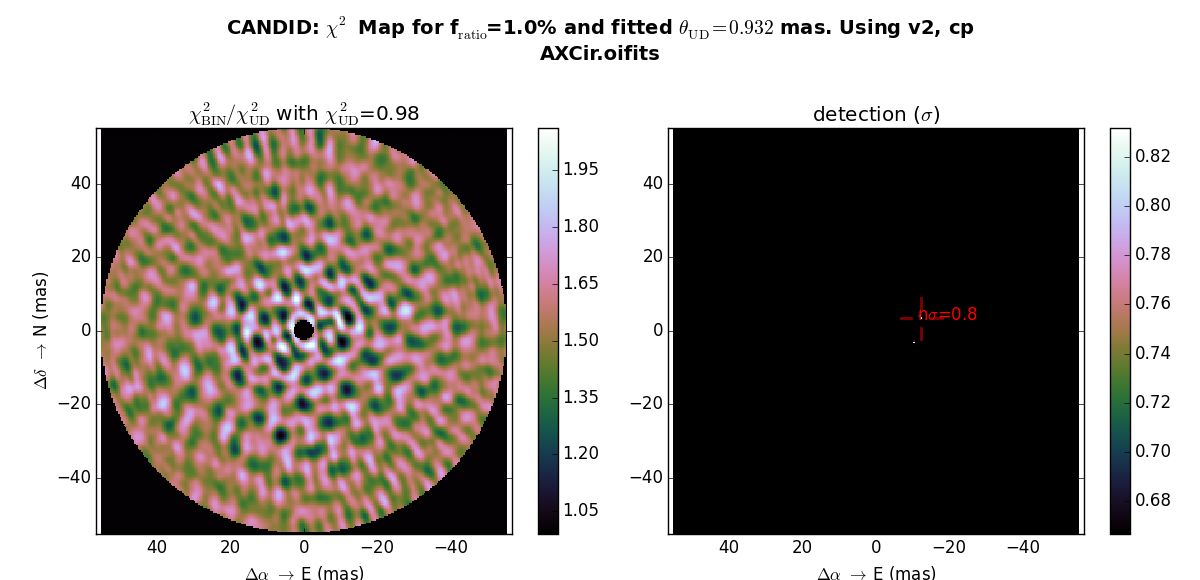
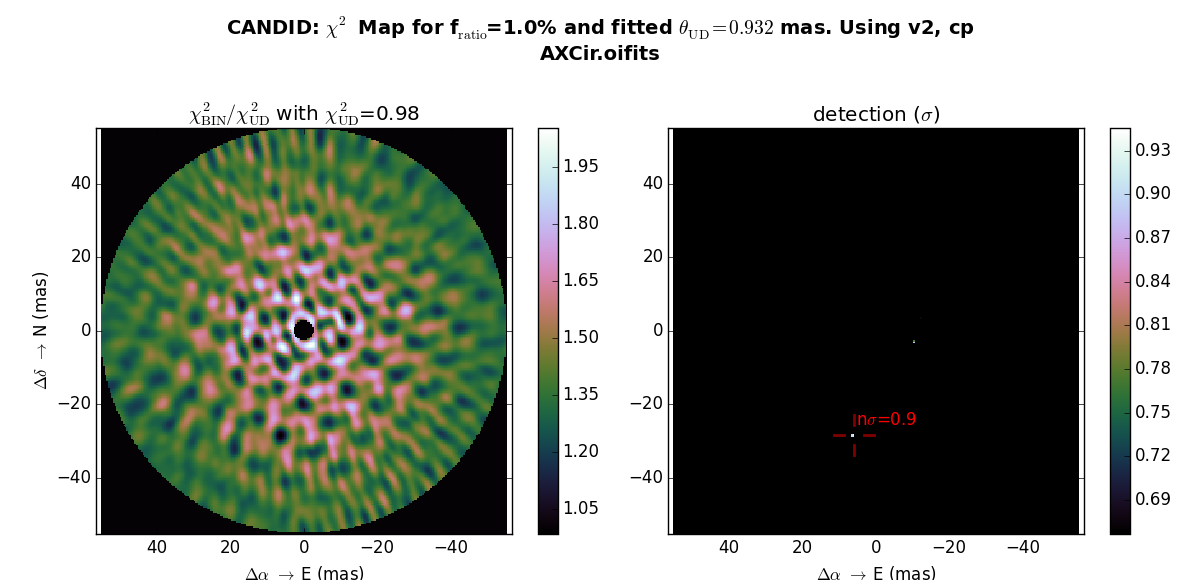
version 0.7: bug fix in T3 computation

diff --git a/candid.py b/candid.py
@@ -27,7 +27,34 @@ import os
 #__version__ = '0.3 | 2015/01/14' # add Alex contrib and FLAG taken into account
 #__version__ = '0.4 | 2015/01/30' # modified bandwidth smearing handling
 #__version__ = '0.5 | 2015/02/01' # field of view, auto rmin/rmax, bootstrapping
-__version__ = '0.6 | 2015/02/10' # bug fix in smearing
+#__version__ = '0.6 | 2015/02/10' # bug fix in smearing
+__version__ = '0.7 | 2015/02/17' # bug fix in T3 computation
+
+
+"""
+# ----------------------
+# -- stanrdard test: ---
+# ----------------------
+import candid
+from matplotlib import pyplot as plt
+axcir = candid.Open('AXCir.oifits')
+
+# -- simple chi2 map
+axcir.chi2Map(fig=1, fratio=1.0)
+
+# -- run a map of fit
+axcir.fitMap(fig=2)
+
+# -- save best fitted companion for later use
+p = axcir.bestFit['best']
+p = {'dwavel;PIONIER_Pnat(1.6135391/1.7698610)': 0.156, 'f': 0.9395, 'y': -28.53, 'x': 6.24, 'diam*': 0.816}
+
+# -- bootstrapping error bars around best companion
+axcir.fitBoot(param=p)
+
+# -- detection limit
+axcir.detectionLimit(fig=5, removeCompanion=p)
+"""
 
 
 print """
@@ -279,17 +306,6 @@ def _injectCompanionData(data, delta, param):
         else:
             dwavel = None
         if d[0].split(';')[0]=='v2':
-            # if dwavel is None:
-            #     phi = c*2*np.pi*(d[1]*param['x']+d[2]*param['y'])/d[3]
-            #     d[-2] = (d[-2] + 2*param['f']*np.sqrt(np.abs(d[-2]))*np.cos(phi) + param['f']**2)/(1+param['f'])**2
-            # else:
-            #     # -- assumes bandwidthSmearing is a spectral Resolution:
-            #     tmp = 0.0
-            #     for x in np.linspace(-0.5, 0.5, CONFIG['n_smear'])*dwavel:
-            #         phi = c*2*np.pi*(d[1]*param['x']+d[2]*param['y'])/(d[3]+x)
-            #         tmp += (d[-2] + 2*param['f']*np.sqrt(np.abs(d[-2]))*np.cos(phi) + param['f']**2)/(1+param['f'])**2
-            #     d[-2] = tmp/float(CONFIG['n_smear'])
-
             phi = c*2*np.pi*(d[1]*param['x']+d[2]*param['y'])/d[3]
             if not dwavel is None:
                 x = phi*dwavel/d[3]/2.
@@ -302,36 +318,6 @@ def _injectCompanionData(data, delta, param):
                      f**2*(param['f']/100.)**2)/(1+param['f']/100.)**2
 
         if d[0].split(';')[0]=='cp' or d[0].split(';')[0]=='t3':
-            # if dwavel is None:
-            #     phi0 = c*2*np.pi*(d[1]*param['x']+d[2]*param['y'])/d[5]
-            #     phi1 = c*2*np.pi*(d[3]*param['x']+d[4]*param['y'])/d[5]
-            #     phi2 = c*2*np.pi*((d[1]+d[3])*param['x']+(d[2]+d[4])*param['y'])/d[5]
-            #     # -- Antoine's original:
-            #     # d[-2] -= param['f']*(np.sin(phi0)/delta[i][0]+
-            #     #                      np.sin(phi1)/delta[i][1]-
-            #     #                      np.sin(phi2)/delta[i][2])
-            #     # -- from Alex:
-            #     tmp = 1 + param['f']*( np.exp(-1j*phi2)/delta[i][2] + np.exp(1j*phi1)/delta[i][1] + np.exp(1j*phi0)/delta[i][0] )
-            #     d[-2] -= np.angle(tmp)
-            # else:
-            #     # -- assumes bandwidthSmearing is a spectral Resolution:
-            #     tmp = 0.0 + 0.0j
-            #     for x in np.linspace(-0.5, 0.5, CONFIG['n_smear'])*dwavel:
-            #         phi0 = c*2*np.pi*(d[1]*param['x']+d[2]*param['y'])/(d[5]+x)
-            #         phi1 = c*2*np.pi*(d[3]*param['x']+d[4]*param['y'])/(d[5]+x)
-            #         phi2 = c*2*np.pi*((d[1]+d[3])*param['x']+(d[2]+d[4])*param['y'])/(d[5]+x)
-            #         # -- Antoine's:
-            #         # tmp += param['f']*(np.sin(phi0)/delta[i][0]+
-            #         #                    np.sin(phi1)/delta[i][1]-
-            #         #                    np.sin(phi2)/delta[i][2])
-            #         # -- Alex:
-            #         tmp += 1 + param['f']*(np.exp(-1j*phi2)/delta[i][2] + np.exp(1j*phi1)/delta[i][1] + np.exp(1j*phi0)/delta[i][0])
-
-            #     # -- Antoine's:
-            #     #d[-2] -= tmp/float(CONFIG['n_smear'])
-            #     # -- Alex's:
-            #     d[-2] -= np.angle(tmp/float(CONFIG['n_smear']))
-
             phi0 = c*2*np.pi*(d[1]*param['x']+d[2]*param['y'])/d[5]
             phi1 = c*2*np.pi*(d[3]*param['x']+d[4]*param['y'])/d[5]
             phi2 = c*2*np.pi*((d[1]+d[3])*param['x']+(d[2]+d[4])*param['y'])/d[5]
@@ -347,9 +333,9 @@ def _injectCompanionData(data, delta, param):
                 f2 = np.abs(np.sin(x)/x)
             else:
                 f0,f1,f2 = 1., 1., 1.
-            tmp = 1 + param['f']/100.*( f0*np.exp(-1j*phi2)/delta[i][2] +
-                                  f1*np.exp(1j*phi1)/delta[i][1] +
-                                  f2*np.exp(1j*phi0)/delta[i][0] )
+            tmp = 1 + param['f']/100.*( f2*np.exp(-1j*phi2)/delta[i][2] +
+                                        f1*np.exp(1j*phi1)/delta[i][1] +
+                                        f0*np.exp(1j*phi0)/delta[i][0] )
             if d[0].split(';')[0]=='cp':
                 d[-2] -= np.angle(tmp)
             else:
@@ -527,7 +513,6 @@ class Open:
             tmp = {'x':0, 'y':0, 'f':0, 'diam*':1.0}
             for _k in self.dwavel.keys():
                 tmp['dwavel;'+_k] = self.dwavel[_k]
-            print tmp
             fit_0 = _fitFunc(tmp, self._chi2Data, self.observables)
 
             print ' > UD Fit'
@@ -1223,7 +1208,7 @@ class Open:
             ax1.plot(self._dataheader['X'], self._dataheader['Y'], 'py', markersize=12, alpha=0.3)
 
         # -- do an additional fit by fitting also the bandwidth smearing
-        if False:
+        if True:
             param = self.bestFit['best']
             fitAlso = filter(lambda x: x.startswith('dwavel'), param)
             print ' > fixed bandwidth parameters for the map (in um):'

diff --git a/README.md b/README.md
@@ -32,18 +32,28 @@ The code has *not* been deeply error proofed. If you encounter problems or bugs,
 see "candidTest.py", function "AXCir". on a Core i7 2.2GHz, It runs in about 50 seconds with the 'fast' option (fast indeed, but not accurate!), and almost 6 minutes in normal mode.
 * **chi2 Maps**. These are useful because fast, but dangerous because it is easy to miss a companion just using those. On FIG1 and FIG2, we show to runs for different diamaters and flux ratio: either the diameter is fitted to the V2 data ([FIG1](https://github.com/amerand/CANDID/blob/master/doc/figure_1.png)). The chi2 map shows a minimum only if the grid if fine enough (the structure in the map should be clear, not pixelated) but also if the parameters (inc. the flux ratio) are very close to the actual ones.
 * **fit Maps**. These are better, but much slower than chi2 maps. If V2 are present, the diameter will be fitted ([FIG2](https://github.com/amerand/CANDID/blob/master/doc/figure_2.png)). Note that once a companion is found, it can be removed analytically from the data and the fit map ran again ([FIG3](https://github.com/amerand/CANDID/blob/master/doc/figure_3.png)): this demontrates that, in the case of our example, the secondary "detections" are only artefact from the main companion.
-* **detection limits**. We imlemented 2 methods; Absil's and our companion injection. Note that they give slightly different results: we argue that our method is more robust to correlated noise (read our paper!). When you have detected a companion and wish to estimate the detection limit, it is important to first remove analyticaly the companion ([FIG5](https://github.com/amerand/CANDID/blob/master/doc/figure_5.png)).
+* **detection limits**. We imlemented 2 methods; Absil's and our companion injection. Note that they give slightly different results: we argue that our method is more robust to correlated noise (read our paper!). When you have detected a companion and wish to estimate the detection limit, it is important to first remove analytically the companion ([FIG5](https://github.com/amerand/CANDID/blob/master/doc/figure_5.png)).
 
-Open OIFITS file with CANDID, and restrict search from 2 to 35 mas. Also, only consider 'v2' and 'cp' observables.
-
-```python
->>> import candid
->>> from matplotlib import pyplot as plt
->>> axcir = candid.Open('AXCir.oifits', rmin=2, rmax=35)
->>> axcir.observables=['v2','cp']
-```
 
 **We strongly recommand you use plain python2.7, instead of iPython, because of the bad interactions between iPython and the multiprocessing library, which makes the estimation of the running time very unreliable.**
+
+Open OIFITS file with CANDID:
+
+```
+>>> import candid
+>>> from matplotlib import pyplot as plt
+>>> axcir = candid.Open('AXCir.oifits')
+ > loading file AXCir.oifits
+ | WARNING: no valid T3AMP values in this HDU
+ | WARNING: no valid T3AMP values in this HDU
+ | Smallest spatial scale:       2.68 mas
+ | Diffraction Field of view:  221.88 mas
+ | WL Smearing Field of view:   55.24 mas
+ | observables available: [ 'v2', 'cp']
+ | instruments: [ 'VLTI-PIONIER_Pnat(1.6135391/1.7698610)']
+ | rmin= not given, set to smallest spatial scale: rmin= 2.68 mas
+ | rmax= not given, set to Field of View: rmax=55.24 mas
+```
 
 ### FIG1 - CHI2MAP: fitted diameter and fixed flux ratio=1%:
 The easiest thing to try is a chi2 map, assuming a certain flux ratio for the companion. This is quite inefficient but CANDID allows to do it. If no parametrization is given (step size 'step=', maximum radius for search 'rmax'), CANDID will guess some values based on the angular resolution and the wavelength smearing field of view. The flux ratio is given in percent.
@@ -132,8 +142,8 @@ On the correlations plots, the red dot with error bars is the fitted position; t
 ![Figure 4](https://github.com/amerand/CANDID/blob/master/doc/figure_4.png)
 
 
-### FIG5 - DETECTION LIMIT, after analyticaly removing companion:
-We here remove the companion analyticaly (using a high contrast hypothesis) from the V2 and CP data. This is mandatory in order to estimate the detection limit: the statistical hypothesis of the test is that the data are best described by a uniform disk.
+### FIG5 - DETECTION LIMIT, after analytically removing companion:
+We here remove the companion analytically (using a high contrast hypothesis) from the V2 and CP data. This is mandatory in order to estimate the detection limit: the statistical hypothesis of the test is that the data are best described by a uniform disk.
 
 ```
 >>> axcir.detectionLimit(fig=5, removeCompanion=p)
